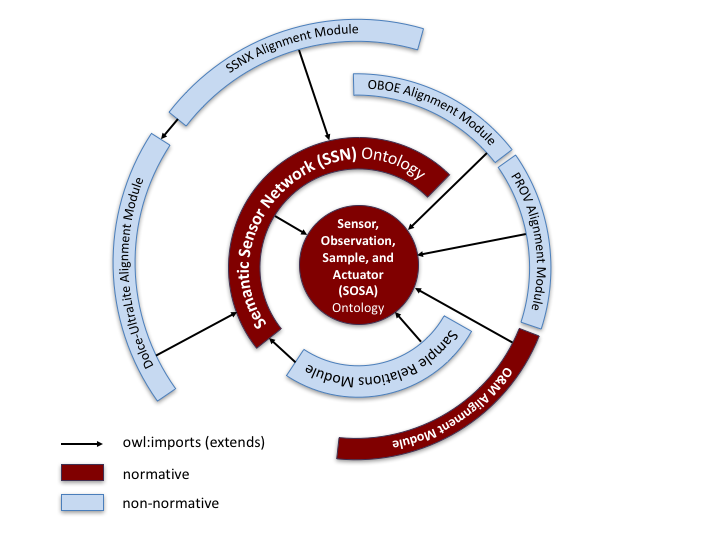
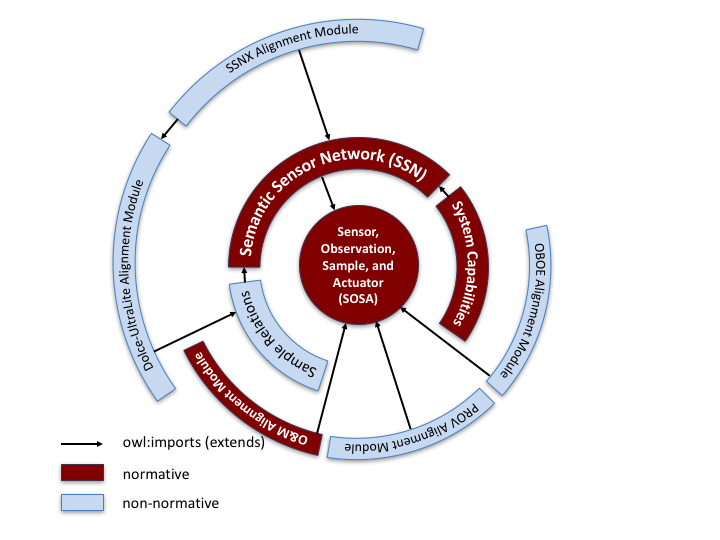
Added System Capabilities module in Figure, fixed Section organisation of horizontal segmentation, added change history

Changed region(s): [[0.1528, 0.1185, 0.7639, 0.8593], [0.3972, 0.4148, 0.4278, 0.4444]]

diff --git a/ssn/index.html b/ssn/index.html
@@ -4441,7 +4441,7 @@ their usage are given.</p>
         This section provides details on the currently available 
         horizontal segmentation modules and the handling of forecasts and locations.
         <section id="System-capabilities">
-          <h3>System capabilities, operating ranges, and survival ranges</h3>
+          <h3>System Capabilities Module</h3>
           <p>The terms defined in this section are marked <em><a href="#at-risk">at risk</a></em>.</p>
           <p style="text-align: center;">The namespace for system capabilities, operating ranges, and survival ranges terms is 
             <span class="repeated" style="font-family: courier;">http://www.w3.org/ns/ssn/systems#</span>
@@ -5659,7 +5659,6 @@ their usage are given.</p>
 
           </section>
         </section>
-        </section>
 
 
         <section id="Sample_Alignment" class="informative">
@@ -5868,7 +5867,7 @@ their usage are given.</p>
           the future is not covered by this specification.</p>
      </section>
      </section>
-     <!-- </section> -->
+     </section>
       <section class="appendix" id="examples">
         <h2>Complete Examples</h2>
         <section id="appartment-134">
@@ -7141,11 +7140,26 @@ their usage are given.</p>
               <li>Changed rdfs:comment for ssn:qualityOfObservation</li>
               <li>Removed ssn:sensingMethodUsed property</li>
               <li>Added rdfs:comment for ssn:hasInput</li>
-              <li> Changed sosa:Platform  subclass of   dul:PhysicalObject </li>
-              <li> Moved ssn:qualityOfObservation, properties related to system capabilities, operating range, and survival range, to ontology http://www.w3.org/ns/ssn/systems#</li>
+              <li>Changed sosa:Platform subclass of dul:PhysicalObject </li>
             </ul>
           </li>
         </ol>
-    </section>
-        </body>
+        <h3>Changes since 3rd Public Working Draft <a href="https://www.w3.org/TR/2017/WD-vocab-ssn-20170504/">
+            (https://www.w3.org/TR/2017/WD-vocab-ssn-20170504/)</a></h3>
+        <ol>
+          <li>Fixed colouring of O&amp;M module in Figure 1 to be normative</li>
+          <li>Added examples to Appendix</li>
+          <li>Added a "at risk" section in Status of This Document section</li>
+          <li>Reorganized specification sections to have:
+            <ul>
+              <li>One non-normative overview section, with links to the examples that showcase the terms in that section</li>
+              <li>The normative specification section</li>
+              <li>Moved ssn:qualityOfObservation, properties related to system capabilities, operating range, and survival range, to horizontal ontology module http://www.w3.org/ns/ssn/systems# marked at risk</li>
+            </ul>
+          </li>
+          <li>Fixed Horizontal Module sections to be grouped together as Section 6</li>
+          <li>Added new horizontal module for System Capabilities to Figure 1</li>
+        </ol>
+      </section>
+  </body>
 </html>
